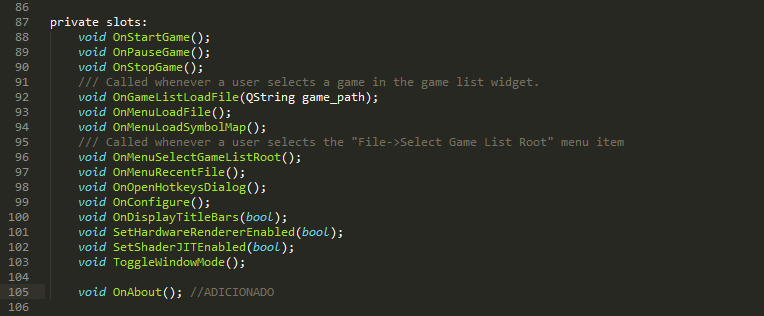
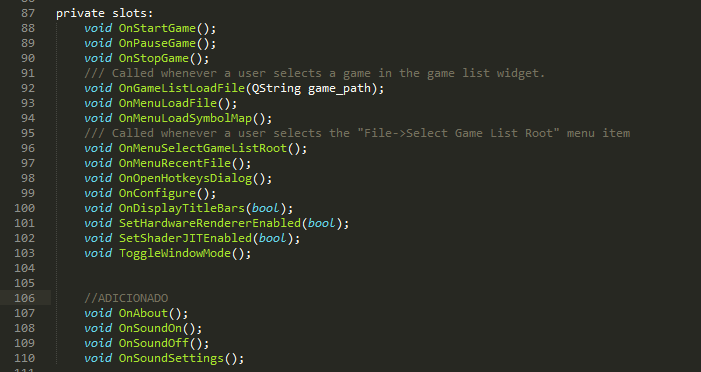
corrections

Changed region(s): [[0.0, 0.0, 0.8987, 1.0]]

diff --git a/src/citra_qt/main.cpp b/src/citra_qt/main.cpp
@@ -173,7 +173,14 @@ GMainWindow::GMainWindow() : emu_thread(nullptr)
     connect(ui.action_Start, SIGNAL(triggered()), this, SLOT(OnStartGame()));
     connect(ui.action_Pause, SIGNAL(triggered()), this, SLOT(OnPauseGame()));
     connect(ui.action_Stop, SIGNAL(triggered()), this, SLOT(OnStopGame()));
-    connect(ui.action_About, SIGNAL(triggered()), this, SLOT(OnAbout()));  // FOI ADICIONADO ESTE
+
+    //ADICIONADOS
+    connect(ui.action_About, SIGNAL(triggered()), this, SLOT(OnAbout()));
+    connect(ui.action_Sound_On, SIGNAL(triggered()), this, SLOT(OnSoundOn()));
+    connect(ui.action_Sound_Off, SIGNAL(triggered()), this, SLOT(OnSoundOff()));
+    connect(ui.action_Sound_Settings, SIGNAL(triggered()), this, SLOT(OnSoundSettings()));
+
+
     connect(ui.action_Use_Hardware_Renderer, SIGNAL(triggered(bool)), this, SLOT(SetHardwareRendererEnabled(bool)));
     connect(ui.action_Use_Shader_JIT, SIGNAL(triggered(bool)), this, SLOT(SetShaderJITEnabled(bool)));
     connect(ui.action_Single_Window_Mode, SIGNAL(triggered(bool)), this, SLOT(ToggleWindowMode()));

diff --git a/src/citra_qt/main.h b/src/citra_qt/main.h
@@ -102,7 +102,12 @@ private slots:
     void SetShaderJITEnabled(bool);
     void ToggleWindowMode();
 
-    void OnAbout(); //ADICIONADO
+
+    //ADICIONADO
+    void OnAbout(); 
+    void OnSoundOn();
+    void OnSoundOff();
+    void OnSoundSettings();
 
 private:
     Ui::MainWindow ui;

diff --git a/ESOF-docs/Evolução de Software.md b/ESOF-docs/Evolução de Software.md
@@ -26,19 +26,25 @@ Para o sistema reproduzir uma música que o utilizador pretenda aquando do acion
 
 ##**Identificação das componentes que implementam essa feature**
 
-Para a impementação desta feature foi necessário alterar o ficheiro [main.cpp](https://github.com/leonardo95/citra/blob/master/src/citra_qt/main.cpp), tal como o ficheiro [main.h](https://github.com/leonardo95/citra/blob/master/src/citra_qt/main.h).
+Para a impementação desta feature foi necessário alterar o ficheiro [main.cpp](https://github.com/leonardo95/citra/blob/master/src/citra_qt/main.cpp), o ficheiro [main.h](https://github.com/leonardo95/citra/blob/master/src/citra_qt/main.h) e o ficheiro [main.ui](https://github.com/leonardo95/citra/blob/master/src/citra_qt/main.ui).
+
+<br>
+![Alt text](https://raw.githubusercontent.com/leonardo95/citra/master/ESOF-docs/Resources/ui_xml.png)
+<br>
+
+Inicialmente, foi acrescentado ao main.ui a secção do menu de som, com as várias opções, apartir do qual é gerada a janela principal.
 
 <br>
 ![Alt text](https://raw.githubusercontent.com/leonardo95/citra/master/ESOF-docs/Resources/setup_connections.png)
 <br>
 
-A abordagem para manter os padrões de estrutura do trabalho já realizado foi de adicionar no main.cpp uma connection entre um sinal, que é enviado ao existir um certo evento dentro da janela (neste caso um clique do rato), e um SLOT que será, basicamente, a função a chamar para resolver o sinal.
+A abordagem para manter os padrões de estrutura do trabalho já realizado foi de adicionar no main.cpp várias connections entre sinais, que são enviados ao existir um certo evento dentro da janela (neste caso um clique do rato), e SLOTs que seram, basicamente, as funções a chamar para resolver os sinais.
 
 <br>
 ![Alt text](https://raw.githubusercontent.com/leonardo95/citra/master/ESOF-docs/Resources/slots.png)
 <br>
 
-Tivemos de adicionar, também o slot necessário OnAbout().
+Tivemos de adicionar, também os slot necessário OnAbout(), OnSoundOn(), OnSoundOff() e OnSoundSettings().
 
 ##**Evolução da feature**
 
